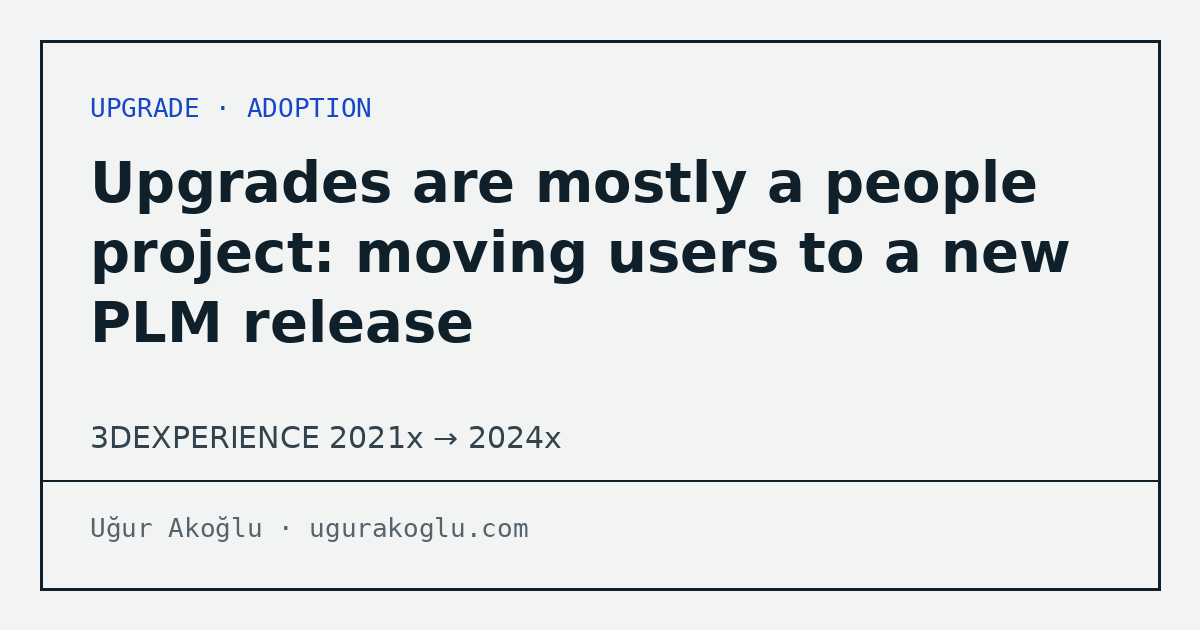
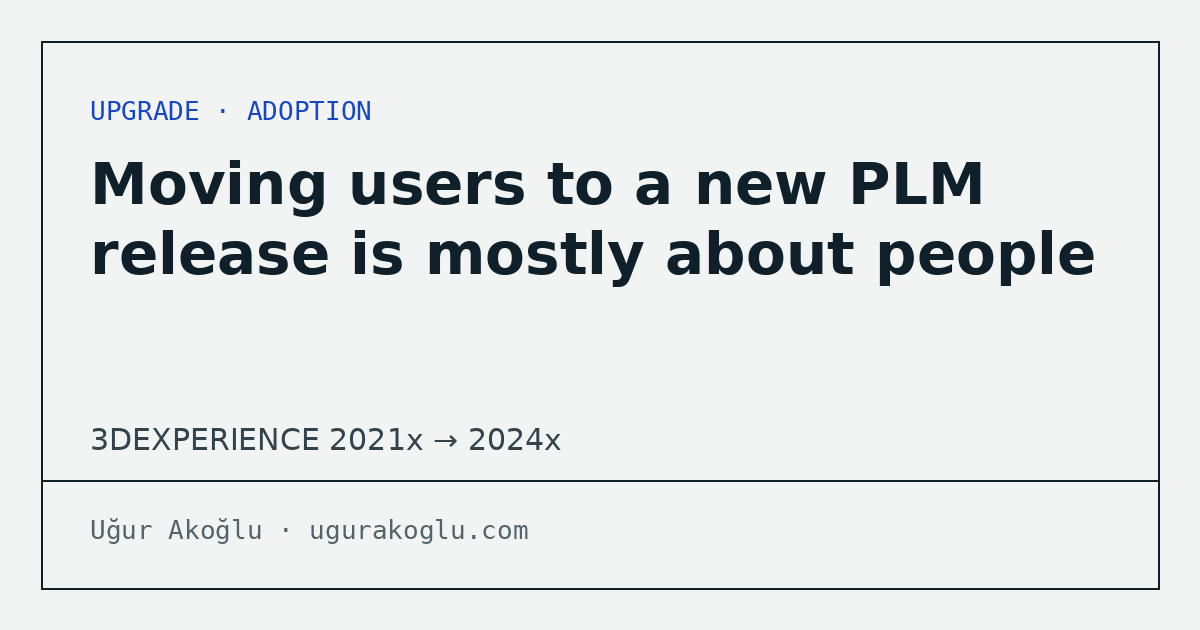
Regenerate share images with updated article titles
Claude-Session: https://claude.ai/code/session_01UTEpXXqX8uUy3gYaoMKTng

diff --git a/tr/writing/replacing-a-design-tool-without-downtime.html b/tr/writing/replacing-a-design-tool-without-downtime.html
@@ -14,7 +14,7 @@
 <meta property="og:url" content="https://ugurakoglu.com/tr/writing/replacing-a-design-tool-without-downtime.html">
 <meta property="og:title" content="Vesys'i Capital Essentials ile değiştirirken kullanıcılar çalışmaya devam etti">
 <meta property="og:description" content="Bir elektrik tasarım uygulamasını Vesys'ten Capital Essentials'a, aynı veritabanı ve kullanıcılarla, test projeleri, key user onayı ve rollback planıyla nasıl yükselttik; insanlar bir sonraki iş gününde kesintisiz devam etti.">
-<meta property="og:image" content="https://ugurakoglu.com/og-replacing-a-design-tool-without-downtime.png">
+<meta property="og:image" content="https://ugurakoglu.com/og-replacing-a-design-tool-without-downtime.png?v=2">
 <meta property="og:image:width" content="1200">
 <meta property="og:image:height" content="630">
 <meta name="twitter:card" content="summary_large_image">

diff --git a/tr/writing/administering-engineering-software.html b/tr/writing/administering-engineering-software.html
@@ -14,7 +14,7 @@
 <meta property="og:url" content="https://ugurakoglu.com/tr/writing/administering-engineering-software.html">
 <meta property="og:title" content="Kendi kullanmadığım 15'ten fazla mühendislik uygulamasını yönetmek">
 <meta property="og:description" content="On beşten fazla mühendislik uygulamasının lisans ve kurulum yöneticisi olmanın ne demek olduğu; tek kullanıcılı araçlardan bölümler arası kullanılanlara kadar, ve makine mühendisliği geçmişinin nasıl yardımcı olduğu.">
-<meta property="og:image" content="https://ugurakoglu.com/og-administering-engineering-software.png">
+<meta property="og:image" content="https://ugurakoglu.com/og-administering-engineering-software.png?v=2">
 <meta property="og:image:width" content="1200">
 <meta property="og:image:height" content="630">
 <meta name="twitter:card" content="summary_large_image">

diff --git a/tr/writing/merging-duplicate-parts-with-mql.html b/tr/writing/merging-duplicate-parts-with-mql.html
@@ -14,7 +14,7 @@
 <meta property="og:url" content="https://ugurakoglu.com/tr/writing/merging-duplicate-parts-with-mql.html">
 <meta property="og:title" content="PLM birleştirmesindeki 1.600 mükerrer parçayı matris hesabıyla düzelttim">
 <meta property="og:description" content="Yayınlanmış binlerce montajdaki mükerrer standart parçaları değiştirmek için sunucu tarafı MQL ve koordinat matrislerini nasıl kullandım; tahmini 1.100 adam-günlük tasarruf.">
-<meta property="og:image" content="https://ugurakoglu.com/og-merging-duplicate-parts-with-mql.png">
+<meta property="og:image" content="https://ugurakoglu.com/og-merging-duplicate-parts-with-mql.png?v=2">
 <meta property="og:image:width" content="1200">
 <meta property="og:image:height" content="630">
 <meta name="twitter:card" content="summary_large_image">

diff --git a/tr/writing/moving-users-to-new-plm-release.html b/tr/writing/moving-users-to-new-plm-release.html
@@ -14,7 +14,7 @@
 <meta property="og:url" content="https://ugurakoglu.com/tr/writing/moving-users-to-new-plm-release.html">
 <meta property="og:title" content="Yeni bir PLM sürümüne geçiş çoğunlukla insanlarla ilgilidir">
 <meta property="og:description" content="2024x yükseltmesinden ve DELMIA devreye almadan, mühendislerin değişimi benimsemesine yardım etme üzerine öğrendiklerim: nedenini anlat, erken pilot yap, go-live sonrasında destek ver.">
-<meta property="og:image" content="https://ugurakoglu.com/og-moving-users-to-new-plm-release.png">
+<meta property="og:image" content="https://ugurakoglu.com/og-moving-users-to-new-plm-release.png?v=2">
 <meta property="og:image:width" content="1200">
 <meta property="og:image:height" content="630">
 <meta name="twitter:card" content="summary_large_image">

diff --git a/writing/replacing-a-design-tool-without-downtime.html b/writing/replacing-a-design-tool-without-downtime.html
@@ -12,7 +12,7 @@
 <meta property="og:type" content="article">
 <meta property="og:title" content="Replacing Vesys with Capital Essentials while users kept working">
 <meta property="og:description" content="How we upgraded an electrical design application from Vesys to Capital Essentials on the same database and users, with test projects, key-user sign-off and a rollback plan, so people continued the next working day without any downtime.">
-<meta property="og:image" content="https://ugurakoglu.com/og-replacing-a-design-tool-without-downtime.png">
+<meta property="og:image" content="https://ugurakoglu.com/og-replacing-a-design-tool-without-downtime.png?v=2">
 <meta property="og:image:width" content="1200">
 <meta property="og:image:height" content="630">
 <meta name="twitter:card" content="summary_large_image">

diff --git a/writing/administering-engineering-software.html b/writing/administering-engineering-software.html
@@ -12,7 +12,7 @@
 <meta property="og:type" content="article">
 <meta property="og:title" content="Administering 15+ engineering applications I don't use myself">
 <meta property="og:description" content="What it means to be the licence and installation administrator for more than fifteen engineering applications, from tools with a single user to tools used across departments, and how a mechanical engineering background helps.">
-<meta property="og:image" content="https://ugurakoglu.com/og-administering-engineering-software.png">
+<meta property="og:image" content="https://ugurakoglu.com/og-administering-engineering-software.png?v=2">
 <meta property="og:image:width" content="1200">
 <meta property="og:image:height" content="630">
 <meta name="twitter:card" content="summary_large_image">

diff --git a/writing/merging-duplicate-parts-with-mql.html b/writing/merging-duplicate-parts-with-mql.html
@@ -12,7 +12,7 @@
 <meta property="og:type" content="article">
 <meta property="og:title" content="How I fixed 1,600 duplicate parts in a PLM merge with matrix maths">
 <meta property="og:description" content="How I used server-side MQL and coordinate matrices to replace duplicated standard parts across thousands of released assemblies, saving an estimated 1,100 man-days.">
-<meta property="og:image" content="https://ugurakoglu.com/og-merging-duplicate-parts-with-mql.png">
+<meta property="og:image" content="https://ugurakoglu.com/og-merging-duplicate-parts-with-mql.png?v=2">
 <meta property="og:image:width" content="1200">
 <meta property="og:image:height" content="630">
 <meta name="twitter:card" content="summary_large_image">

diff --git a/writing/moving-users-to-new-plm-release.html b/writing/moving-users-to-new-plm-release.html
@@ -12,7 +12,7 @@
 <meta property="og:type" content="article">
 <meta property="og:title" content="Moving users to a new PLM release is mostly about people">
 <meta property="og:description" content="What I have learned from the 2024x upgrade and the DELMIA rollout about helping engineers adopt change: explain why, pilot early, support after go-live.">
-<meta property="og:image" content="https://ugurakoglu.com/og-moving-users-to-new-plm-release.png">
+<meta property="og:image" content="https://ugurakoglu.com/og-moving-users-to-new-plm-release.png?v=2">
 <meta property="og:image:width" content="1200">
 <meta property="og:image:height" content="630">
 <meta name="twitter:card" content="summary_large_image">
